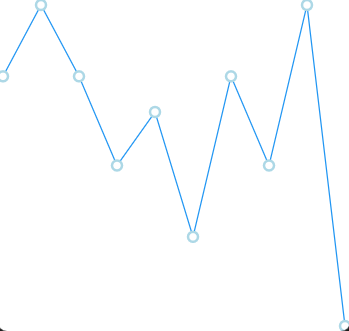
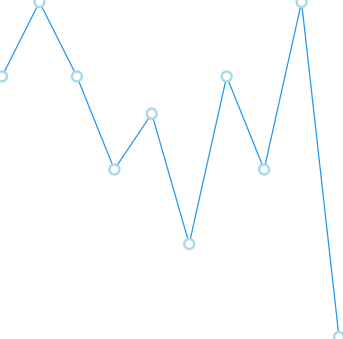
MAUI-971915-Addressed-review-suggestions

diff --git a/maui-toolkit/Spark-Charts/customize-datapoints.md b/maui-toolkit/Spark-Charts/customize-datapoints.md
@@ -53,7 +53,7 @@ this.Content = sparkchart;
 
 N> `NegativePointsFill` is applicable for `SfSparkColumnChart` and `SfSparkWinLossChart` alone.
 
-![Spark chart in .NET MAUI Chart](customize_datapoints_images/MAUI_Line_segments.png)
+![Customized data points in MAUI Spark Line Chart](customize_datapoints_images/MAUI_Line_segments.png)
 
 Code snippet to customize the segments
 
@@ -91,11 +91,11 @@ this.Content = sparkchart;
 
 {% endtabs %}
 
-![Spark chart in .NET MAUI Chart](customize_datapoints_images/MAUI_Column_segments.png)
+![Customized data points in MAUI Spark Column Chart](customize_datapoints_images/MAUI_Column_segments.png)
 
 ## Padding
 
-The `padding` property represents the distance between an element and its child elements. Padding can be applied in specific direction or in all directions. Padding can be applied for all sparkline types.
+The `Padding` property represents the distance between an element and its child elements. Padding can be applied in specific direction or in all directions. Padding can be applied for all sparkline types.
 
 {% tabs %}
 
@@ -124,20 +124,22 @@ The `padding` property represents the distance between an element and its child 
 
 {% highlight c# %}
 
-SfSparkColumnChart sparkchart = new SfSparkColumnChart()
+var viewModel = new SparkDataViewModel();
+SfSparkLineChart sparkchart = new SfSparkLineChart()
 {
-    ItemsSource = new SparkChartViewModel().Data,
+    BindingContext = viewModel,
+    ItemsSource = viewModel.Data,
     Padding = new Thickness(20),
     ShowMarkers = true,
     YBindingPath = "Value",
     MarkerSettings = new SparkChartMarkerSettings
     {
-        Fill= Colors.white,
+        Fill= Colors.White,
         StrokeWidth = 2,
         Stroke = new SolidColorBrush(Colors.LightBlue),
         Height = 8,
         Width = 8,
-        Shape = SparkChartMarkerShape.Circle
+        ShapeType = SparkChartMarkerShape.Circle
     }
 };
 this.Content = sparkchart;
@@ -146,5 +148,5 @@ this.Content = sparkchart;
 
 {% endtabs %}
 
-![Spark chart in .NET MAUI Chart](customize_datapoints_images/MAUI_Line_Sparkline_without_padding.png)
-![Spark chart in .NET MAUI Chart](customize_datapoints_images/MAUI_Line_Sparkline_with_padding.png)
+![Spark Line Chart Without Padding](customize_datapoints_images/MAUI_Line_Sparkline_without_padding.png)
+![Spark Line Chart With Padding](customize_datapoints_images/MAUI_Line_Sparkline_with_padding.png)

diff --git a/maui-toolkit/Spark-Charts/sparkchart-types.md b/maui-toolkit/Spark-Charts/sparkchart-types.md
@@ -40,7 +40,7 @@ this.Content = sparkchart;
 
 {% endtabs %}
 
-![Spark chart in .NET MAUI Chart](sparkchart_types_images/MAUI_Line_Sparkline.png)
+![Spark Line chart in MAUI Spark Chart](sparkchart_types_images/MAUI_Line_Sparkline.png)
 
 ## Column Sparkline
 
@@ -70,7 +70,7 @@ this.Content = sparkchart;
 
 {% endtabs %}
 
-![Spark chart in .NET MAUI Chart](sparkchart_types_images/MAUI_Column_Sparkline.png)
+![Spark Column chart in MAUI Spark Chart](sparkchart_types_images/MAUI_Column_Sparkline.png)
 
 ## Area Sparkline
 
@@ -101,7 +101,7 @@ this.Content = sparkchart;
 
 {% endtabs %}
 
-![Spark chart in .NET MAUI Chart](sparkchart_types_images/MAUI_Area_Sparkline.png)
+![Spark Area chart in MAUI Spark Chart](sparkchart_types_images/MAUI_Area_Sparkline.png)
 
 ## WinLoss Sparkline
 
@@ -131,4 +131,4 @@ this.Content = sparkchart;
 
 {% endtabs %}
 
-![Spark chart in .NET MAUI Chart](sparkchart_types_images/MAUI_WinLoss_Sparkline.png)
+![Spark WinLoss chart in MAUI Spark Chart](sparkchart_types_images/MAUI_WinLoss_Sparkline.png)

diff --git a/maui-toolkit/Spark-Charts/getting-started.md b/maui-toolkit/Spark-Charts/getting-started.md
@@ -437,7 +437,7 @@ public partial class MainPage : ContentPage
         SparkChartViewModel viewModel = new SparkChartViewModel();
         SfSparkLineChart sparkchart = new SfSparkLineChart()
         {
-            ItemsSource = new SparkChartViewModel().Data,
+            ItemsSource = viewModel.Data,
             YBindingPath = "Value",
             BindingContext = viewModel;
         };
@@ -451,6 +451,6 @@ public partial class MainPage : ContentPage
 
 The following spark chart is created as a result of the previous codes.
 
-![Spark chart in .NET MAUI Chart](getting_started_images/MAUI_Spark_Chart.png)
+![Spark Line Chart in MAUI Spark Chart](getting_started_images/MAUI_Spark_Chart.png)
 
 You can find the complete getting started sample from this [link](https://github.com/SyncfusionExamples/maui-toolkit-samples/tree/master/SparkChart/GettingStarted).

diff --git a/maui-toolkit/Spark-Charts/markers.md b/maui-toolkit/Spark-Charts/markers.md
@@ -42,7 +42,7 @@ this.Content = sparkchart;
 
 {% endtabs %}
 
-![Spark chart in .NET MAUI Chart](markers_images/MAUI_marker.png)
+![Spark Line Chart With Marker](markers_images/MAUI_marker.png)
 
 ## Marker Customization
 
@@ -99,4 +99,4 @@ this.Content = sparkchart;
 
 {% endtabs %}
 
-![Spark chart in .NET MAUI Chart](markers_images/MAUI_marker_customized.png)
+![Spark Line Chart With Marker Settings](markers_images/MAUI_marker_customized.png)
